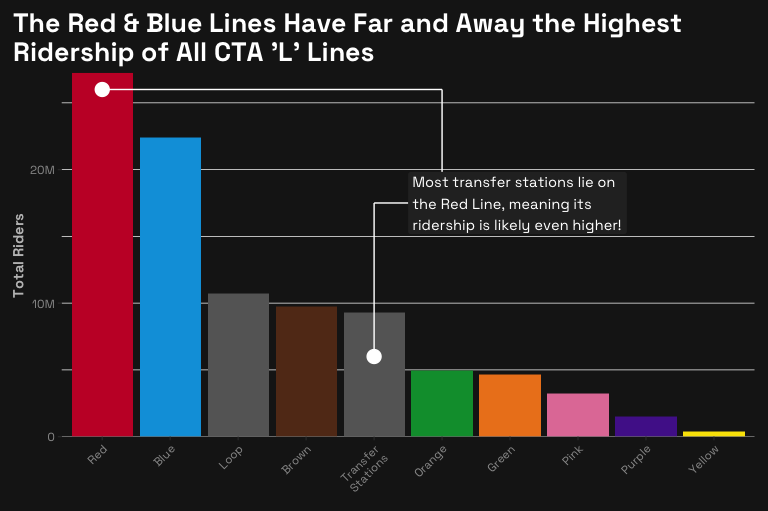
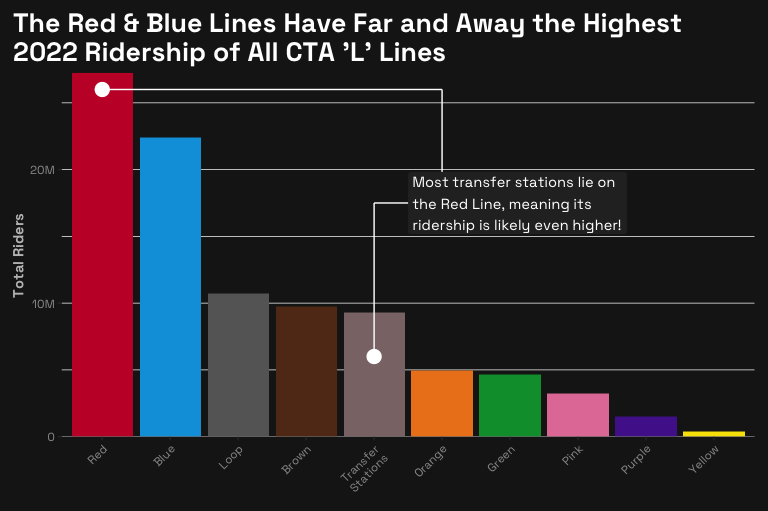
fixed labeling error, streamlined ggsave

Changed region(s): [[0.4375, 0.5871, 0.7188, 0.8806], [0.0, 0.0587, 0.5938, 0.1468]]

diff --git a/L-ridership_graph/L-ridership_graph.md b/L-ridership_graph/L-ridership_graph.md
@@ -51,7 +51,7 @@ ggplot(
     stat = "identity"
   ) +
   labs(
-    title = "The Red Line Dominates the Most-Ridden CTA\nStations List",
+    title = "The Red Line Dominates 2022's Most-Ridden CTA\nStations",
     x = "",
     y = ""
   ) +
@@ -170,7 +170,7 @@ ggplot(totals_2022) +
     stat = "identity"
   ) +
   labs(
-    title = "The Red & Blue Lines Have Far and Away the Highest\nRidership of All CTA 'L' Lines",
+    title = "The Red & Blue Lines Have Far and Away the Highest\n2022 Ridership of All CTA 'L' Lines",
     y = "Total Riders",
     x = ""
   ) +
@@ -179,16 +179,16 @@ ggplot(totals_2022) +
     expand = c(0,0) # forces start at origin
   ) +
   scale_fill_manual(
-    values = c("#c60c30",
-               "#00a1de",
-               "gray40",
-               "#62361b",
-               "gray40",
-               "#009b3a",
-               "#ed831f",
-               "#e27ea6",
-               "#522398",
-               "#f9e300")
+    values = c("Red" = "#c60c30",
+               "Blue" = "#00a1de",
+               "Transfer Stations" = "#8a7576",
+               "Brown" = "#62361b",
+               "Loop" = "gray40",
+               "Green" = "#009b3a",
+               "Orange" = "#ed831f",
+               "Pink" = "#e27ea6",
+               "Purple" = "#522398",
+               "Yellow" = "#f9e300")
   ) +
   scale_x_discrete(
     labels = labels
@@ -291,8 +291,10 @@ ggplot(totals_2022) +
 ![](L-ridership_graph_files/figure-commonmark/Ridership%20by%20CTA%20Line%20Bar%20Graph-1.png)
 
 ``` r
-# ggsave(here("L-ridership_graph", "L-ridership_bar-graph.png"), width = 8, units = "in")
+ggsave(here("L-ridership_graph", "L-ridership_bar-graph.png"), width = 8, units = "in")
 ```
+
+    Saving 8 x 5.33 in image
 
 ``` r
 yearly_line_riders_2022 <- yearly_riders_2022 %>% 
@@ -314,10 +316,10 @@ yearly_line_riders_2022 <- yearly_riders_2022 %>%
   mutate(
     line = fct_reorder(line, yearly_riders, .fun = "median") # sort lines by median station ridership
   )
+```
 
-
-
-line_ridership_scatterbox <- ggplot(
+``` r
+ggplot(
   yearly_line_riders_2022,
   aes(x = fct_rev(line),
       y = yearly_riders,
@@ -336,7 +338,7 @@ line_ridership_scatterbox <- ggplot(
     show.legend = FALSE
   ) +
   labs(
-    title = "Loop and Non-Loop Transfer Stations Have Higher Median\nRidership Than Single-Line Stations",
+    title = "Loop and Non-Loop Transfer Stations Have Higher Median\n2022 Ridership Than Single-Line Stations",
     y = "Yearly Riders"
   ) +
   scale_y_continuous(
@@ -399,12 +401,10 @@ line_ridership_scatterbox <- ggplot(
         legend.position = "none",
         plot.margin = margin(10, 10, 0, 10)
   )
-
-line_ridership_scatterbox
 ```
 
 ![](L-ridership_graph_files/figure-commonmark/Ridership%20by%20CTA%20Line%20&%20Station%20Box/Scatterplot-1.png)
 
 ``` r
-# ggsave(here("L-ridership_graph", "L-ridership_scatterbox.png"), plot = line_ridership_scatterbox, width = 8, units = "in")
+# ggsave(here("L-ridership_graph", "L-ridership_scatterbox.png"), width = 8, units = "in")
 ```
